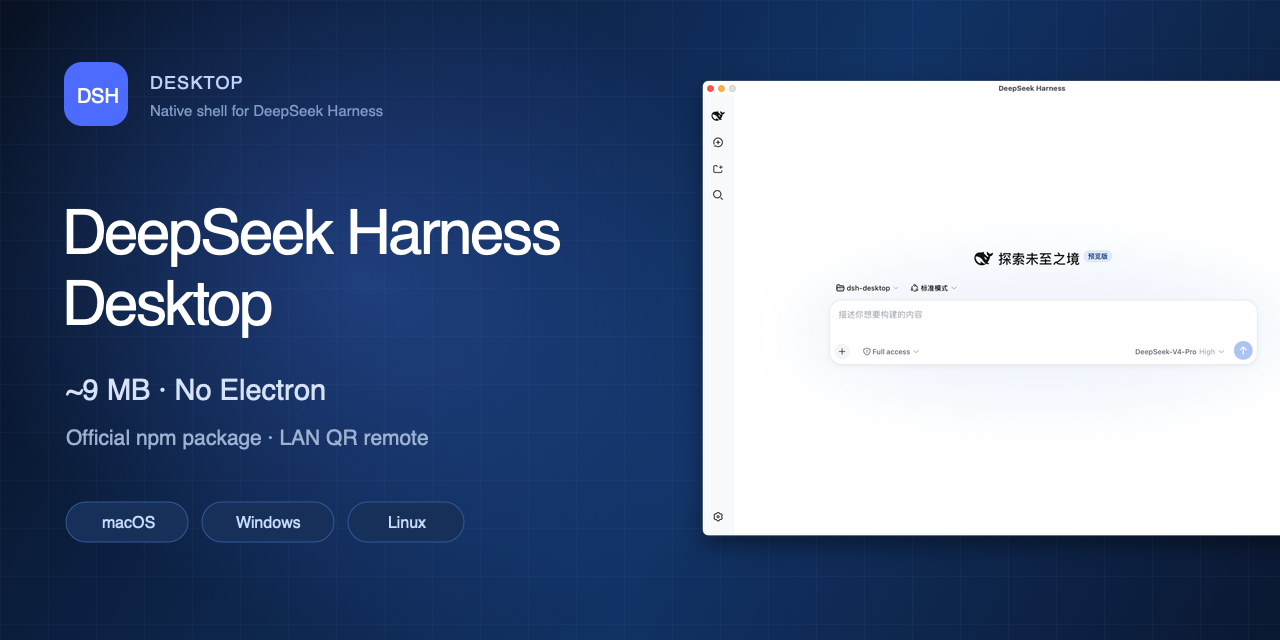
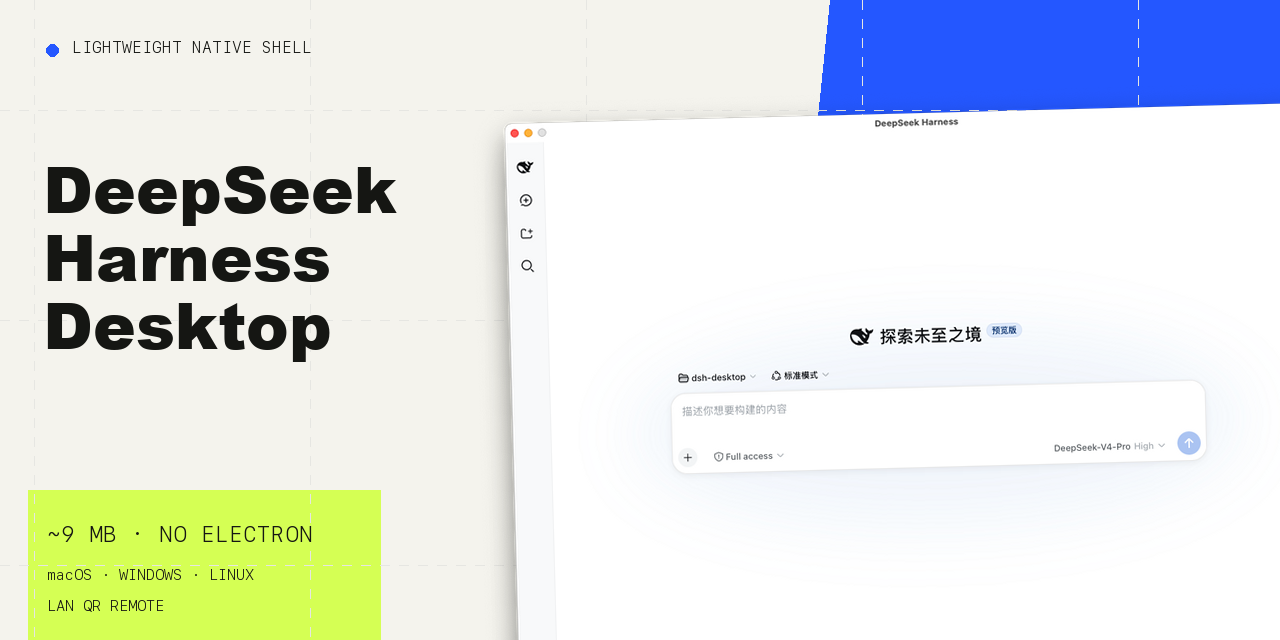
docs: align README hero with website branding

diff --git a/README.en.md b/README.en.md
@@ -1,5 +1,5 @@
 <p align="center">
-  <img src="./assets/hero-en.jpg" alt="DeepSeek Harness Desktop: about 9 MB, no Electron, with LAN QR remote access" width="100%">
+  <img src="./assets/hero.jpg" alt="DeepSeek Harness Desktop native app window on the official website visual system" width="100%">
 </p>
 
 # DeepSeek Harness Desktop

diff --git a/README.md b/README.md
@@ -1,5 +1,5 @@
 <p align="center">
-  <img src="./assets/hero-zh.jpg" alt="DeepSeek Harness Desktop：约 9 MB、无 Electron、支持局域网扫码远程" width="100%">
+  <img src="./assets/hero.jpg" alt="DeepSeek Harness Desktop：官网视觉背景上的原生应用窗口" width="100%">
 </p>
 
 # DeepSeek Harness Desktop
